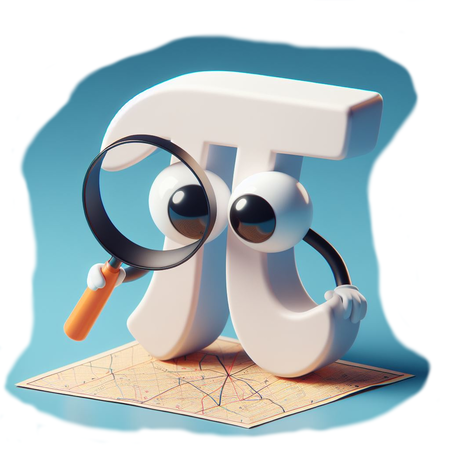
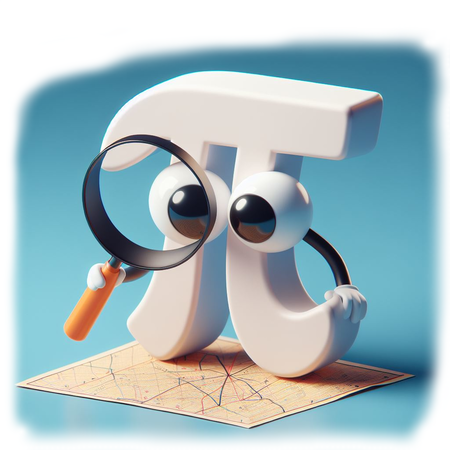
404 image with better borders, better message

Changed region(s): [[0.0, 0.0622, 0.9956, 0.9956]]

diff --git a/themes/emf_hugo_theme/layouts/404.html b/themes/emf_hugo_theme/layouts/404.html
@@ -7,7 +7,7 @@
         <img src="{{ $not_found_image.RelPermalink }}" alt = "Page not found">
     </figure>
     <p class="text-center">
-        Sorry, we tried but looks like we can't find our way to the requested page
+        Sorry, looks like we can't find our way to the requested page
     </p>
 </div>
 
